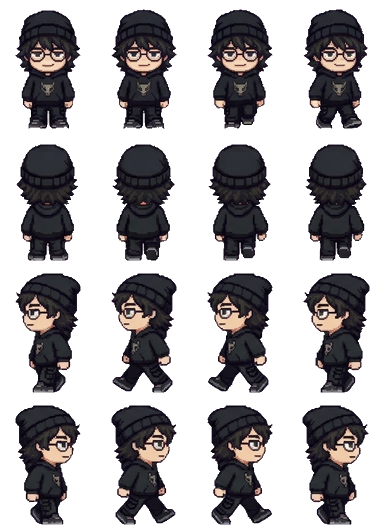
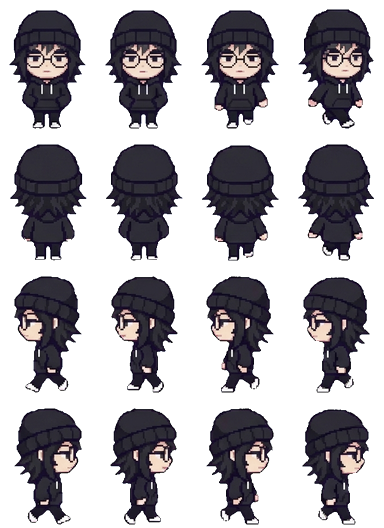
Redraw the hidden girlfriend: beanie, glasses, shaggy cut, black hoodie
Claude-Session: https://claude.ai/code/session_01KaPsBYLrtbRfMYNG2xeBCK

diff --git a/docs/app.js b/docs/app.js
@@ -75,7 +75,7 @@ function spr(cat, k, col, sc) {
   return `<div class="clip" style="width:${it[2] * sc}px;height:${it[3] * sc}px;POS"><img class="px" src="assets/decor/${cat}.png" alt="" style="width:${S.sw * sc}px;height:${S.sh * sc}px;margin-left:${-col * S.cw * sc}px;margin-top:${-i * S.ch * sc}px"></div>`;
 }
 const icon = (k, sz) => `<span class="itm" style="width:${sz}px;height:${sz}px"><img class="px" src="assets/ui/items.png" alt="" style="width:${IT.length * sz}px;height:${sz}px;margin-left:${-ITM[k].i * sz}px"></span>`;
-const face = (id, w) => { const s = w / 96; return `<img class="px" src="assets/ch/${id}.webp?v=54" alt="" style="position:absolute;width:${384 * s}px;height:${528 * s}px;left:${-(96 * s - w) / 2}px;top:0;max-width:none">`; };
+const face = (id, w) => { const s = w / 96; return `<img class="px" src="assets/ch/${id}.webp?v=55" alt="" style="position:absolute;width:${384 * s}px;height:${528 * s}px;left:${-(96 * s - w) / 2}px;top:0;max-width:none">`; };
 
 // ---------- 저장 ----------
 let fb = null, user = null, S = null, saveT = null;
@@ -143,7 +143,7 @@ function sleepHTML(id, r, dy) {
   const pos = r.a && r.a[0] === 'bed' ? 'left:3%;bottom:20%' : r.b && r.b[0] === 'bed' ? 'right:3%;bottom:20%' : 'left:calc(50% - 44px);bottom:6%';
   const s = 36 / 96;
   return `<div style="position:absolute;width:88px;height:56px;${pos};z-index:${dy ? 4 : 5};${dy ? `transform:translate(12px,${dy}px)` : ''}"><div style="position:absolute;inset:0;filter:brightness(.22)">
-    <div style="position:absolute;left:11px;top:1px;width:36px;height:50px;overflow:hidden;transform:rotate(-90deg)"><img class="px" src="assets/ch/${id}.webp?v=54" alt="" style="width:${384 * s}px;height:${528 * s}px;max-width:none;margin-top:${-132 * s}px"></div>
+    <div style="position:absolute;left:11px;top:1px;width:36px;height:50px;overflow:hidden;transform:rotate(-90deg)"><img class="px" src="assets/ch/${id}.webp?v=55" alt="" style="width:${384 * s}px;height:${528 * s}px;max-width:none;margin-top:${-132 * s}px"></div>
     <div style="position:absolute;left:19px;top:19px;width:67px;height:29px;border:2px solid var(--ink);border-radius:8px 6px 4px 4px;background:#8ccff5;background-image:repeating-linear-gradient(90deg,transparent 0 10px,rgba(255,255,255,.5) 10px 13px)"></div></div>
     ${dy ? '' : '<span class="emo" style="left:8px;top:-22px;color:#5b6bd6">Z z z</span>'}</div>`;
 }
@@ -153,8 +153,8 @@ function roomHTML(id, o, scale) {
     <div class="floor" style="background-color:${PAL[r.fc][1]};background-image:${tileUrl('floor', r.fl)}"></div>
     ${slot('deco', r.dc, 'left:6%;top:6%')}${slot('furn', r.a, 'left:3%;bottom:20%')}${slot('furn', r.b, 'right:3%;bottom:20%')}${slot('prop', r.pr, 'left:28%;bottom:4%;z-index:2')}
     ${id && o.sleeping && g ? sleepHTML(g, r, -16) : ''}${id && o.sleeping ? sleepHTML(id, r) : ''}${id && o.job ? `<div style="position:absolute;left:50%;top:38%;transform:translateX(-50%);z-index:5;background:#fff;border:3px solid var(--ink);border-radius:10px;padding:6px 10px;font-size:11px;text-align:center;line-height:1.5"><img src="assets/ui/ic_job.png" alt="" style="width:18px;vertical-align:-4px"> ${WORK[id] ? WORK[id][1] : esc(JOB_NAME[id]) + ' 알바 중'}${g ? `<br><small>${esc(nameOf(g))}도 같이</small>` : ''}<br><b id="jobleft">${timeLeft(o.job.until)}</b></div>` : ''}
-    ${id ? `<div class="shadow" id="shd" ${o.sleeping || o.job ? 'style="display:none"' : ''}></div><div class="man" id="man" ${o.sleeping || o.job ? 'style="display:none"' : ''}><img class="px" src="assets/ch/${id}.webp?v=54" alt="${esc(nameOf(id))}"></div><span class="emo" id="emo" hidden></span><span class="mumble" id="mum" hidden></span>` : ''}
-    ${g ? `<div class="shadow" id="gshd" ${hideG}></div><div class="man" id="gman" ${hideG}><img class="px" src="assets/ch/${g}.webp?v=54" alt="${esc(nameOf(g))}"></div><span class="emo" id="gemo" hidden></span><span class="mumble gmum" id="gmum" hidden></span>` : ''}
+    ${id ? `<div class="shadow" id="shd" ${o.sleeping || o.job ? 'style="display:none"' : ''}></div><div class="man" id="man" ${o.sleeping || o.job ? 'style="display:none"' : ''}><img class="px" src="assets/ch/${id}.webp?v=55" alt="${esc(nameOf(id))}"></div><span class="emo" id="emo" hidden></span><span class="mumble" id="mum" hidden></span>` : ''}
+    ${g ? `<div class="shadow" id="gshd" ${hideG}></div><div class="man" id="gman" ${hideG}><img class="px" src="assets/ch/${g}.webp?v=55" alt="${esc(nameOf(g))}"></div><span class="emo" id="gemo" hidden></span><span class="mumble gmum" id="gmum" hidden></span>` : ''}
     ${o.sleeping ? `<div class="night"></div><div class="sleepleft">쿨쿨 · 일어나기까지 <b id="sleepleft">${timeLeft(wakeAt(o)).replace(' 남음', '')}</b></div>` : ''}
   </div>`;
 }
@@ -167,7 +167,7 @@ function meterHTML(o) {
 const ic = (act, img, label, pressed) => `<button class="ic" data-act="${act}" ${pressed ? 'aria-pressed="true"' : ''}><img src="assets/ui/ic_${img}.png?v=2" alt="">${label}</button>`;
 
 let dropStyle = null; const cheat = {};
-const APP_V = 126, COUPONS = { NINOGUYA: 3000 };
+const APP_V = 127, COUPONS = { NINOGUYA: 3000 };
 // 쿠폰 입력 정리: 한글 자판 상태로 친 글자(ㅜㅑㅜㅐ혀ㅛㅁ)도 영어 자판 글자로 바꾸고, 대소문자·띄어쓰기·마침표는 무시해요
 const KEY = { ㄱ: 'r', ㄲ: 'R', ㄴ: 's', ㄷ: 'e', ㄸ: 'E', ㄹ: 'f', ㅁ: 'a', ㅂ: 'q', ㅃ: 'Q', ㅅ: 't', ㅆ: 'T', ㅇ: 'd', ㅈ: 'w', ㅉ: 'W', ㅊ: 'c', ㅋ: 'z', ㅌ: 'x', ㅍ: 'v', ㅎ: 'g',
   ㅏ: 'k', ㅐ: 'o', ㅑ: 'i', ㅒ: 'O', ㅓ: 'j', ㅔ: 'p', ㅕ: 'u', ㅖ: 'P', ㅗ: 'h', ㅘ: 'hk', ㅙ: 'ho', ㅚ: 'hl', ㅛ: 'y', ㅜ: 'n', ㅝ: 'nj', ㅞ: 'np', ㅟ: 'nl', ㅠ: 'b', ㅡ: 'm', ㅢ: 'ml', ㅣ: 'l',
@@ -407,7 +407,7 @@ function startTrip(k) {
   if (tg) lines[1] = `${nameOf(tg)}: ${withHim(sub(pick(GLX(tg).trip), o, c.n), tg)}`;
   const n = (FR[id] || [4, 4, 4, 4])[3], el = document.createElement('div'); el.className = 'tripview';
   el.innerHTML = `<div class="tsay"> </div><div class="tstage" style="background-image:url(assets/travel/${k}.png?v=2)"><div class="tplace">${esc(c.n)}</div>
-    <div class="twalker"><img class="px" src="assets/ch/${id}.webp?v=54" alt=""></div>${tg ? `<div class="twalker tgirl"><img class="px" src="assets/ch/${tg}.webp?v=54" alt=""></div>` : ''}<span class="emo tjoy">♪</span></div>
+    <div class="twalker"><img class="px" src="assets/ch/${id}.webp?v=55" alt=""></div>${tg ? `<div class="twalker tgirl"><img class="px" src="assets/ch/${tg}.webp?v=55" alt=""></div>` : ''}<span class="emo tjoy">♪</span></div>
     <div class="tbar"><i></i></div><button class="btn white tskip" data-tskip="1">바로 돌아오기</button>`;
   document.body.appendChild(el);
   const gimg = el.querySelector('.tgirl img'), gn = tg ? (FR[tg] || [4, 4, 4, 4])[3] : 1;
@@ -636,7 +636,7 @@ setInterval(() => { if (S && user) { tickTime(); save(); } }, 60000);
     if (nv > APP_V && !location.search.includes('u=' + nv)) { location.replace(location.pathname + '?u=' + nv); return; }
   } catch { }
   app.innerHTML = '<div class="start"><div class="egg"><div class="scr"></div></div><div class="note">불러오는 중....</div></div>';
-  const [c, t, f, it, mu, ct, tv, gl, sts] = await Promise.all(['data/chars.json', 'data/talk.json', 'data/frames.json', 'data/items.json', 'data/mumble.json', 'data/countries.json', 'data/travel.json', 'data/girls.json', 'data/sets.json'].map(u => fetch(u + '?v=126').then(r => r.ok ? r.json() : {})));
+  const [c, t, f, it, mu, ct, tv, gl, sts] = await Promise.all(['data/chars.json', 'data/talk.json', 'data/frames.json', 'data/items.json', 'data/mumble.json', 'data/countries.json', 'data/travel.json', 'data/girls.json', 'data/sets.json'].map(u => fetch(u + '?v=127').then(r => r.ok ? r.json() : {})));
   CH = c; CHM = Object.fromEntries(c.map(x => [x.id, x])); TALK = t; FR = f; IT = it; ITM = Object.fromEntries(it.map(x => [x.k, x])); MUM = mu; CTRY = ct; TRV = tv; GL = Array.isArray(gl) ? gl : []; SETS = Array.isArray(sts) ? sts : []; GLM = Object.fromEntries(GL.map(x => [x.id, x]));
   try { await initFirebase(); } catch (e) { console.warn('Firebase 연결 실패, 기기 저장으로', e); fb = null; }
   if (fb) {

diff --git a/docs/index.html b/docs/index.html
@@ -18,6 +18,6 @@
 <main id="app" aria-live="polite"></main>
 <div id="toast" role="status" hidden></div>
 <script src="firebase-config.js?v=3"></script>
-<script type="module" src="app.js?v=126"></script>
+<script type="module" src="app.js?v=127"></script>
 </body>
 </html>
